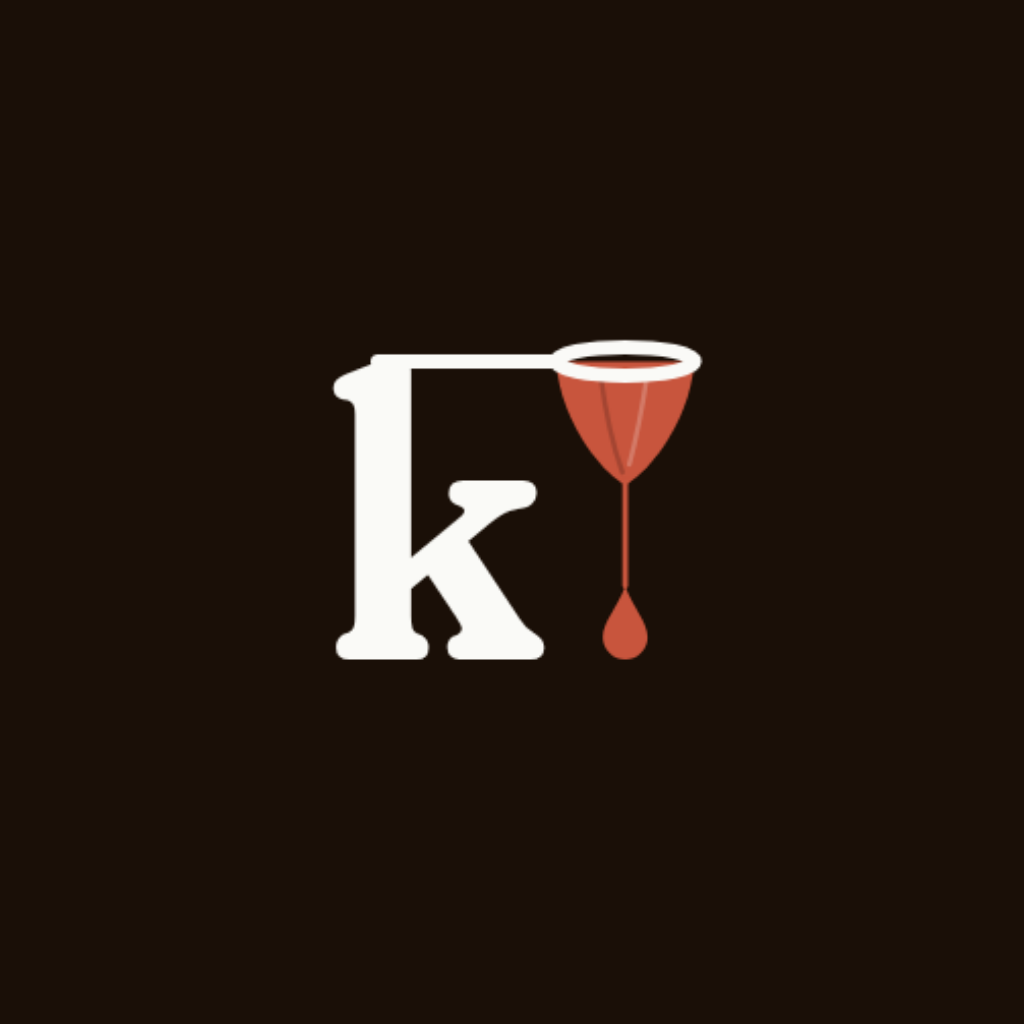
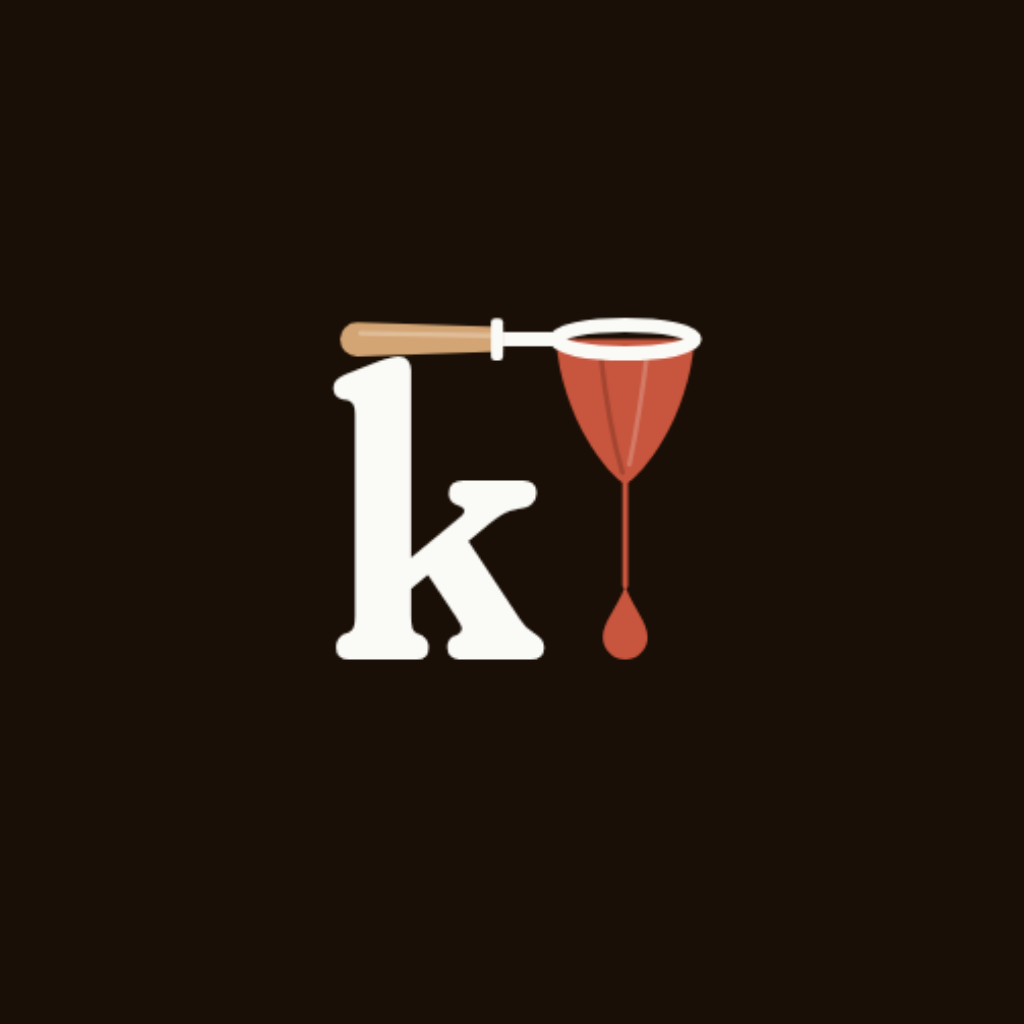
Kape.Me: wooden handle on the coffee sock
Claude-Session: https://claude.ai/code/session_01LRoy2qs7g2ihCdvFKWqSNL

Changed region(s): [[0.3125, 0.3125, 0.6875, 0.4062], [0.625, 0.4062, 0.6562, 0.4688], [0.5625, 0.4062, 0.5938, 0.4688]]

diff --git a/kapeme/brand-kit/README.md b/kapeme/brand-kit/README.md
@@ -17,7 +17,7 @@ colour, type and video are in [`../brand.md`](../brand.md).
 
 ## Logos (`logos/`)
 
-The logo: the **k** holds a coffee sock on its wire handle, and the coffee it drips is the dot in
+The logo: the **k** holds a coffee sock on a turned wooden handle, and the coffee it drips is the dot in
 **kape.me**. Letters in Fraunces (soft, 640), the sock in terracotta.
 
 | File | Use |
@@ -25,7 +25,7 @@ The logo: the **k** holds a coffee sock on its wire handle, and the coffee it dr
 | `kapeme-logo-on-dark.png`, `kapeme-logo-on-light.png` | **Main logo**, for coffee and paper grounds |
 | `kapeme-icon-on-dark.png`, `kapeme-icon-on-light.png` | **Icon**: the k holding the sock. Profile pictures, favicon, corner bug |
 | `*.svg` | The same, as vectors. The letters are live Fraunces text loaded from Google Fonts: use the PNGs, and have a designer outline the letters before print or packaging |
-| `concepts/` | Earlier rounds: the coffee sock, siphon and kettle marks, and the drip, pot and badge lockups |
+| `concepts/` | Earlier rounds: the sock, siphon and kettle marks; the drip, pot and badge lockups; and other handles (plain wire, fused, arc) |
 
 There is no `share-cards/` folder: the site's pages carry no share image in the repository.
 
